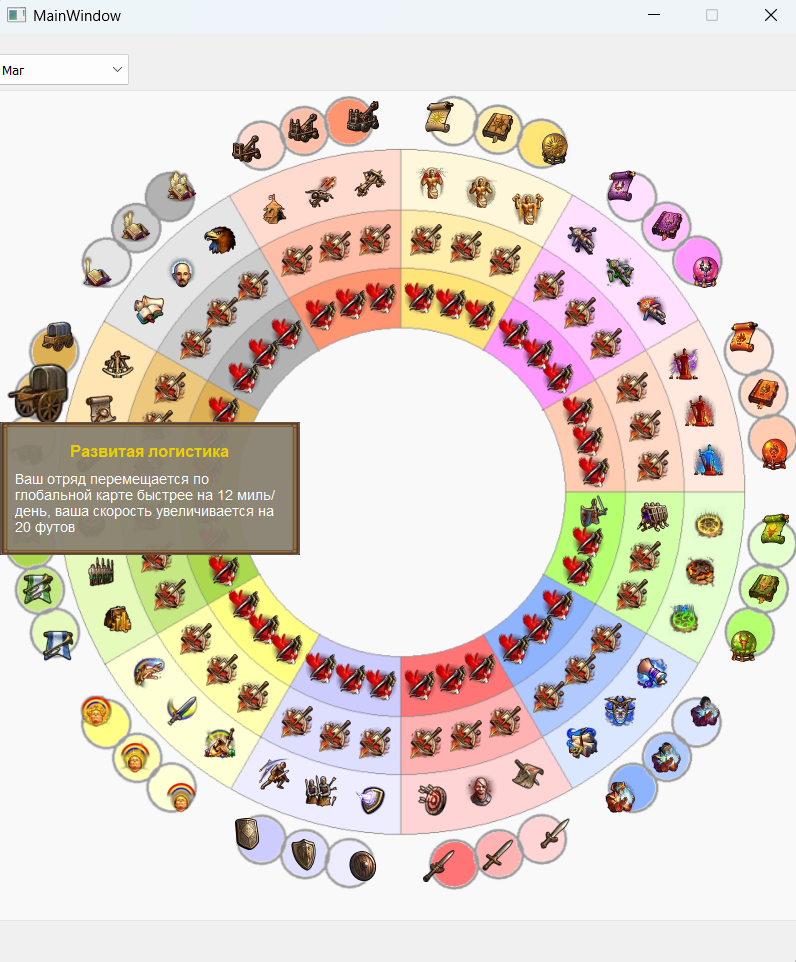
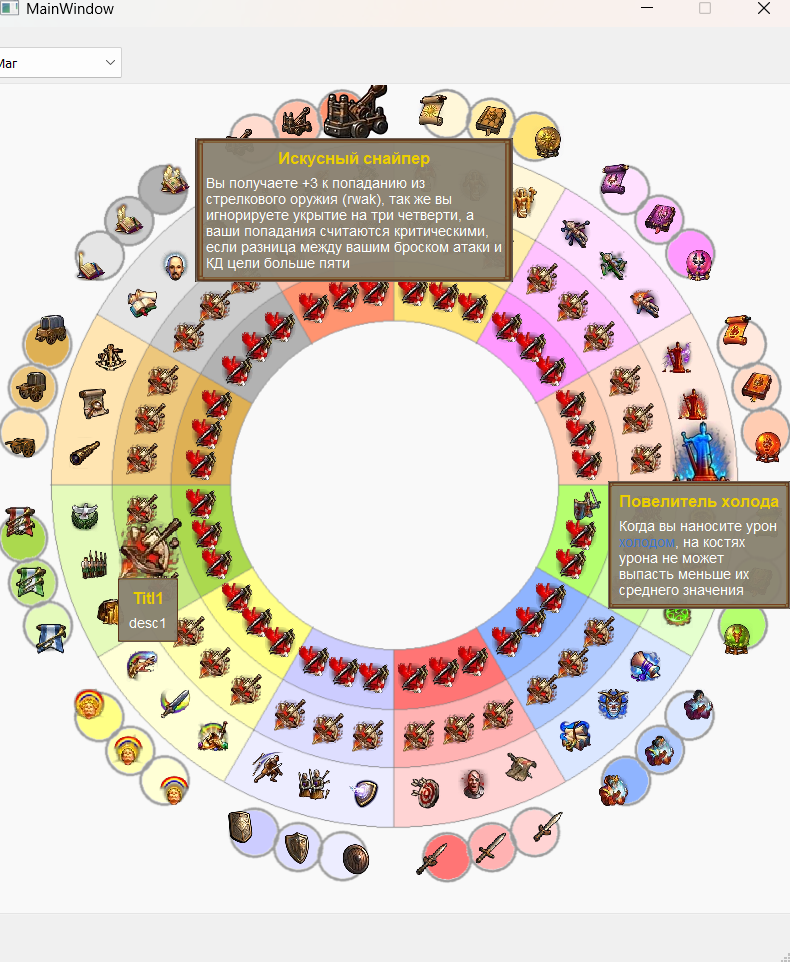
Теперь нажимается кнопка T

diff --git a/mainwindow.cpp b/mainwindow.cpp
@@ -1,6 +1,5 @@
 #include "mainwindow.h"
 #include "ui_mainwindow.h"
-
 #include <QFile>
 #include <QJsonArray>
 #include <QJsonDocument>
@@ -9,23 +8,17 @@
 #include <math.h>
 #include <QPainter>
 #include <QEvent>
-
-enum wheel_size
-{
-    WHEEL_WIDTH = 799,
-    WHEEL_HEIGHT = 799
-};
-
+#include <QKeyEvent>
 
 MainWindow::MainWindow(QWidget* parent)
     : QMainWindow(parent)
     , ui(new Ui::MainWindow)
 {
     ui->setupUi(this);
+    this->installEventFilter(this);
     ui->combo_pages->addItems(pages);
     connect(ui->combo_pages, SIGNAL(currentIndexChanged(int)), this, SLOT(change_page(int)));
     ui->tabWidget->tabBar()->setVisible(false);
-
     // Делаем фон на всех страницах
     background[0] = new QLabel(ui->tab1);
     background[0]->setPixmap(QPixmap(QCoreApplication::applicationDirPath() + "/src/skillwheelBACKGROUND.png"));
@@ -164,28 +157,77 @@ void MainWindow::paint_icons_page(QWidget *page)
     }
 }
 
+//! Фильтр обработки событий
 bool MainWindow::eventFilter(QObject* object, QEvent* event)
 {
-    if(object->objectName()[0] == 'S')
+    // Принимаем события скилла
+    if(object->objectName() == "Skill")
     {
+        int dont_hide_description_flag = get_dont_hide_description_flag(static_cast<Skill*>(object));
+        // При наведении на скилл мышкой
         if(event->type() == QEvent::Enter)
         {
-            zoom_widget(static_cast<Skill*>(object));
+            static_cast<Skill*>(object)->setFocus();
+            // Увеличиваем если только уже не увеличили
+            if(dont_hide_description_flag == 0)
+            {
+                zoom_widget(static_cast<Skill*>(object));
+            }
             return true;
         }
+        // Убираем мышку со скилла
         else if(event->type() == QEvent::Leave)
         {
-            zoom_out_widget(static_cast<Skill*>(object));
+            static_cast<Skill*>(object)->clearFocus();
+            // Уменьшаем, если не закрепили скилл
+            if(dont_hide_description_flag == 0)
+            {
+                zoom_out_widget(static_cast<Skill*>(object));
+                delete_from_pinned_skills(object);
+            }
             return true;
+        }
+        // Нажимаем кнопку на клавиатуре
+        else if(event->type() == QEvent::KeyPress)
+        {
+            QKeyEvent *key_event = static_cast<QKeyEvent*>(event);
+            // Нажимаем букву T
+            if(key_event->key() == Qt::Key_T)
+            {
+                // Добавляем скилл в вектор зафиксированных
+                if(get_dont_hide_description_flag(static_cast<Skill*>(object)) == 0)
+                    pinned_skills.push_back(object);
+                // Фиксируем флагом
+                switch_dont_hide_description_flag(static_cast<Skill*>(object));
+            }
+            return true;
+        }
+    }
+    // Принимаем события всего окна
+    else if(object->objectName() == "MainWindow")
+    {
+        // Если нажали мышкой
+        if(event->type() == QEvent::MouseButtonPress)
+        {
+            while(!pinned_skills.isEmpty())
+            {
+                Skill* skill = static_cast<Skill*>(pinned_skills.last());
+                switch_dont_hide_description_flag(skill);
+                skill->clearFocus();
+                zoom_out_widget(skill);
+                pinned_skills.pop_back();
+            }
         }
     }
     return QMainWindow::eventFilter(object, event);
 }
+//! Функция смены вкладки для перехода между классами
 void MainWindow::change_page(int index)
 {
     ui->tabWidget->setCurrentIndex(index);
 }
 
+//! Функция увеличения иконки скилла и отображения рамки описания
 void MainWindow::zoom_widget(Skill* skill)
 {
     skill->setFixedSize(BASE_SIZE * INCREACE_KOEF, BASE_SIZE * INCREACE_KOEF);
@@ -195,6 +237,7 @@ void MainWindow::zoom_widget(Skill* skill)
     skill->description->raise();
 }
 
+//! Функция возвращения иконки скилла в исходное положение и скрытие рамки
 void MainWindow::zoom_out_widget(Skill *skill)
 {
     skill->setFixedSize(BASE_SIZE, BASE_SIZE);
@@ -202,4 +245,33 @@ void MainWindow::zoom_out_widget(Skill *skill)
     skill->move(skill->x() + offset, skill->y() + offset);
     skill->description->hide();
 }
+
+//! Функция переключения флага запрета или разрешения скилла выходить из режима наведения
+void MainWindow::switch_dont_hide_description_flag(Skill *skill)
+{
+    skill->dont_hide_description_flag = !skill->dont_hide_description_flag;
+}
+
+//! Получаем флаг запрета скрытия рамки описания и уменьшения иконки
+int MainWindow::get_dont_hide_description_flag(Skill *skill)
+{
+    return skill->dont_hide_description_flag;
+}
+
+//! Очищаем массив зафиксированных скллов
+void MainWindow::delete_from_pinned_skills(QObject *object)
+{
+    if(!pinned_skills.isEmpty())
+    {
+        for(int i = 0; i < pinned_skills.size(); i++)
+        {
+            if(pinned_skills[i] == object)
+            {
+                pinned_skills.remove(i);
+                return;
+            }
+        }
+    }
+}
+
 

diff --git a/skill.cpp b/skill.cpp
@@ -1,9 +1,6 @@
 #include "skill.h"
-#include <QEvent>
-#include <QKeyEvent>
 #include <QPainter>
-
-
+#include "settings.h"
 
 Skill::Skill(QWidget *parent, QString icon_path, QString name_text, QString desc_txt) : QWidget(parent)
 {
@@ -15,54 +12,10 @@ Skill::Skill(QWidget *parent, QString icon_path, QString name_text, QString desc
     this->setObjectName("Skill");
 }
 
+//! Отрисовываем иконку скилла
 void Skill::paintEvent(QPaintEvent *event)
 {
     QPainter painter(this);
     painter.drawPixmap(0,0,QPixmap(this->icon_path).scaled(size()));
     QWidget::paintEvent(event);
 }
-
-//! Функция для отлова любых взаимодействий с элементом (наведение мыши, прожатие кнопок)
-//bool Skill::eventFilter(QObject *object, QEvent *event)
-//{
-//    Q_UNUSED(object)
-//    //! Если наводим курсором
-//    if(event->type() == QEvent::Enter)
-//    {
-//        //! Увеличиваем объект
-//        this->resize(BASE_SIZE * INCREACE_KOEF, BASE_SIZE * INCREACE_KOEF);
-//        //! Смещаем объект так, чтобы увеличение происходило без сдвига
-//        int offset = BASE_SIZE / 2;
-//        this->move(this->x() - offset, this->y() - offset);
-//        this->raise();
-//        description->raise();
-//        description->show();
-//        return true;
-////        this->setEnabled(true);
-//    }
-//    //! Если убираем курсор
-//    else if(event->type() == QEvent::Leave)
-//    {
-//        //! Смещаем объект так, чтобы уменьшение происходило без сдвига
-//        int offset = BASE_SIZE / 2;
-//        this->move(this->x() + offset, this->y() + offset);
-//        //! Уменьшаем объект
-//        this->resize(BASE_SIZE, BASE_SIZE);
-//        if (!show_description)
-//            description->hide();
-//        return true;
-//    }
-//    else if(event->type() == QEvent::KeyPress)
-//    {
-//        qDebug() << "bbb";
-//        QKeyEvent *keyEvent = static_cast<QKeyEvent *>(event);
-//        if (keyEvent->key() == Qt::Key_T)
-//        {
-//            qDebug() << "aaa";
-////            show_description = !show_description;
-//            return true;
-//        }
-//    }
-
-//    return QWidget::eventFilter(object, event);
-//}

diff --git a/mainwindow.h b/mainwindow.h
@@ -3,7 +3,9 @@
 
 #include <QCoreApplication>
 #include <QMainWindow>
+#include <QMap>
 #include "skill.h"
+#include "settings.h"
 
 struct skill_struct
 {
@@ -12,13 +14,6 @@ struct skill_struct
     QString description;
     QString title_color;
     Skill* skill;
-
-};
-
-struct all_skills_struct
-{
-    QVector<skill_struct> attack;
-    QVector<skill_struct> battle_cries;
 };
 
 QT_BEGIN_NAMESPACE
@@ -62,12 +57,18 @@ private:
     const QString PIC_PATH = QCoreApplication::applicationDirPath() + "/src/HoMM5_Skills/";
     Ui::MainWindow *ui;
     QLabel* background[8];
+    //! Вектор зафиксированных скиллов
+    QVector<QObject*> pinned_skills;
 
 private slots:
     void change_page(int index);
 public slots:
     void zoom_widget(Skill* skill);
     void zoom_out_widget(Skill* skill);
+    void switch_dont_hide_description_flag(Skill* skill);
+    int get_dont_hide_description_flag(Skill* skill);
+    void delete_from_pinned_skills(QObject* object);
+
 
 };
 #endif // MAINWINDOW_H

diff --git a/description.h b/description.h
@@ -5,17 +5,8 @@
 #include <QObject>
 #include <QPainter>
 #include <QVBoxLayout>
+#include "settings.h"
 
-enum sizes
-{
-    MARGIN_LEFT = 15,
-    MARGIN_TOP = 20,
-    MARGIN_RIGHT = MARGIN_LEFT,
-    MARGIN_BOTOM = MARGIN_TOP,
-    MINIMUM_FRAME_WIDTH = 300,
-    MINIMUM_FRAME_HEIGHT= 100,
-    MAXIMUM_FRAME_WIDTH = MINIMUM_FRAME_WIDTH,
-};
 
 //! Класс рамки описания
 class Description : public QWidget
@@ -23,9 +14,13 @@ class Description : public QWidget
 public:
     Description(QWidget *window, QWidget* skill, QString name_text, QString desc_txt);
     ~Description();
+    //! Текст описания
     QLabel* description_text;
+    //! Название
     QLabel* name;
+    //! Скилл, к которому привязано описание
     QWidget* parent_skill;
+    //! Окно на котором рисуется рамка
     QWidget* parent_window;
     QVBoxLayout* frame_vlayout;
 

diff --git a/skill.h b/skill.h
@@ -1,14 +1,7 @@
 #ifndef SKILL_H
 #define SKILL_H
-#include <QLabel>
-#include <QDebug>
 #include "description.h"
 
-enum icon_sizes
-{
-    BASE_SIZE = 32,         //! Размер иконки
-    INCREACE_KOEF = 2       //! Коэффициент увеличения при наведении
-};
 //! Класс иконки навыка
 class Skill : public QWidget
 {
@@ -16,7 +9,8 @@ public:
     Skill(QWidget *parent, QString pic_path, QString name_text, QString desc_txt);
     Description* description;
     QString icon_path;
-    int show_description = 0;
+    //! Флаг запрета скрытия рамки описания и уменьшения иконки (при 1 - запрещаем, 0 - разрешаем)
+    int dont_hide_description_flag = 0;
 
 private slots:
     void paintEvent(QPaintEvent *event);

diff --git a/settings.h b/settings.h
@@ -1,0 +1,21 @@
+#ifndef SETTINGS_H
+#define SETTINGS_H
+
+enum icon_sizes
+{
+    BASE_SIZE = 32,         //! Размер иконки
+    INCREACE_KOEF = 2       //! Коэффициент увеличения при наведении
+};
+
+enum wheel_size
+{
+    WHEEL_WIDTH = 799,      //! Ширина колеса навыков
+    WHEEL_HEIGHT = 799      //! Высота колеса навыков
+};
+
+enum sizes
+{
+    MINIMUM_FRAME_WIDTH = 300,  //! Минимальная ширина окна описания
+};
+
+#endif // SETTINGS_H

diff --git a/README.md b/README.md
@@ -1,7 +1,7 @@
-## Большой коммит
-Добавлены иконки в проект
-Сделаны базовый и первый круги навыков (теперь в правильном порядке)
-Теперь иконки отрисовываются на всех страницах классов
+## Изменение
+Теперь можно фиксировать описание иконок нажатием английской буквы T
+Переделан класс Skill и сделан правильно фильтр обработки ошибок
+Enumы вынес в отдельный файл 
 
 
 ## Выглядит так
@@ -9,7 +9,5 @@
 
 
 ## Необходимо
-1. Доделать оставшиеся круги в правильном порядке
-2. Исправить проблему обрезания текста рамкой
-3. Придумать как рисовать стрелки на колесе
-4. Сделать навыки классов
+1. Выровнять внешний круг
+2. Что то ещё...
